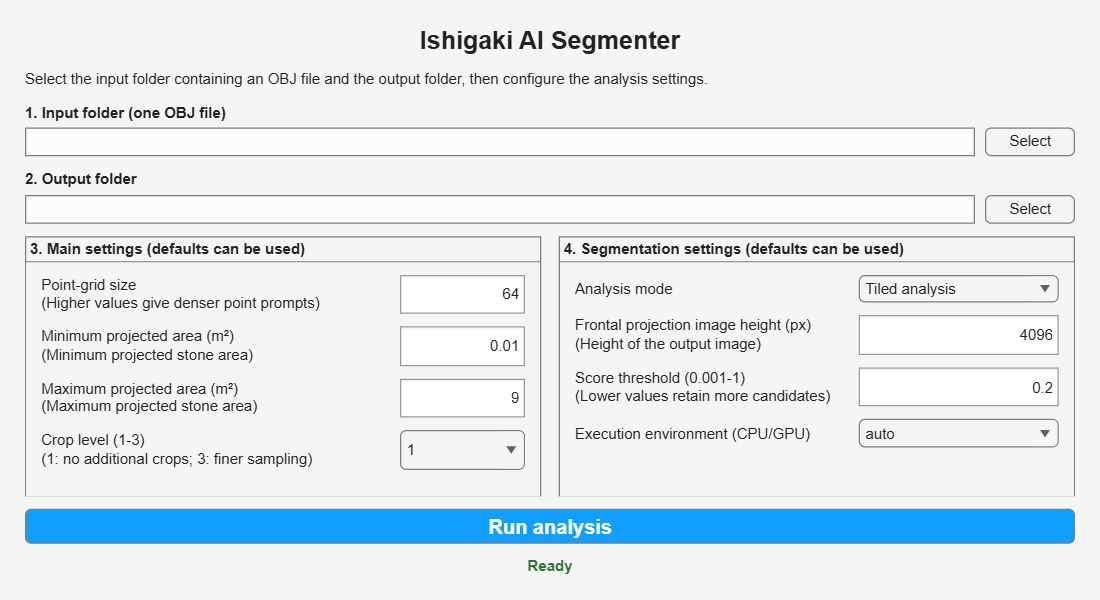
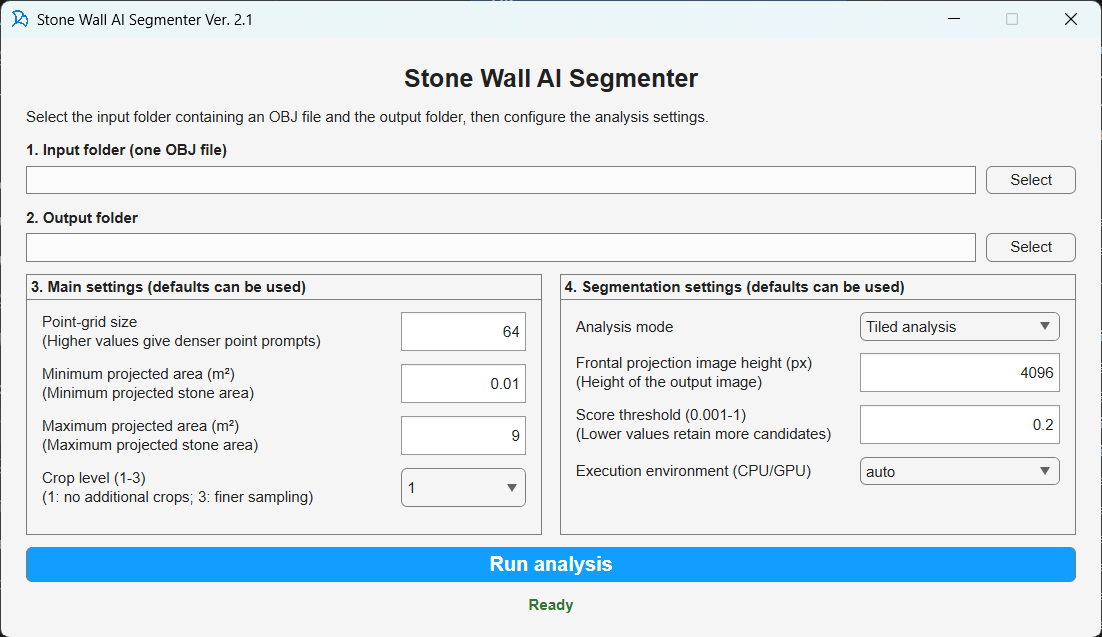
英語版GUI画像を差し替え、アプリ名の表記を統一

diff --git a/README.md b/README.md
@@ -1,4 +1,4 @@
-# Ishigaki AI Segmenter
+# Stone Wall AI Segmenter
 
 **English** | [日本語](README_JP.md)
 
@@ -6,7 +6,7 @@ ImVisionLabs Inc.
 
 ## 1 Introduction
 
-Ishigaki AI Segmenter is a Windows application that extracts individual stone boundaries from textured three-dimensional mesh models of stone walls. It generates a frontal projection image, segments stone regions using AI, reconstructs their boundaries in the original three-dimensional coordinate system, and exports them in Drawing Exchange Format (DXF) for use in CAD software.
+Stone Wall AI Segmenter is a Windows application that extracts individual stone boundaries from textured three-dimensional mesh models of stone walls. It generates a frontal projection image, segments stone regions using AI, reconstructs their boundaries in the original three-dimensional coordinate system, and exports them in Drawing Exchange Format (DXF) for use in CAD software.
 
 Sample data for trying the application are available in [`SampleData/sample-osakacastle/`](SampleData/sample-osakacastle/). The sample data come from the [Stone Wall BIM Project](https://www.nabunken.go.jp/research/stonewallbim.html) at the Nara National Research Institute for Cultural Properties. Download the application from this repository's [Releases](https://github.com/nabunken-info/stone-wall-ai-segmenter/releases) page.
 
@@ -75,7 +75,7 @@ The application can run on a CPU. To use a GPU, you need a GPU and driver compat
 1. Run `StoneSegmentationApp_Installer.exe`.
 2. Follow the installer instructions to choose an installation location and install the matching MATLAB Runtime.
 3. Once installation is complete, launch `StoneSegmentationApp.exe`.
-4. Wait for the Ishigaki AI Segmenter window to appear. The first launch may take some time.
+4. Wait for the Stone Wall AI Segmenter window to appear. The first launch may take some time.
 
 ### 3.2 Select the input and output folders
 
@@ -83,7 +83,7 @@ Figure 3 shows the application interface in English. Select the input and output
 
 ![English application interface with folder selectors, main settings, segmentation settings, and the Run analysis button](README_images/app_main_screen_v2_1-en.png)
 
-Figure 3. Ishigaki AI Segmenter interface in English.
+Figure 3. Stone Wall AI Segmenter interface in English.
 
 1. Click **Select** next to **Input folder (one OBJ file)**.
 2. Select the input folder prepared as described in Section 2.

diff --git a/AGENTS.md b/AGENTS.md
@@ -43,7 +43,7 @@
 
 | 日本語 | 英語 |
 |---|---|
-| 石垣AIセグメンター | Ishigaki AI Segmenter |
+| 石垣AIセグメンター | Stone Wall AI Segmenter |
 | 正面投影画像 | frontal projection image |
 | 正投影画像 | orthographic image |
 | 石材領域 | stone regions |
